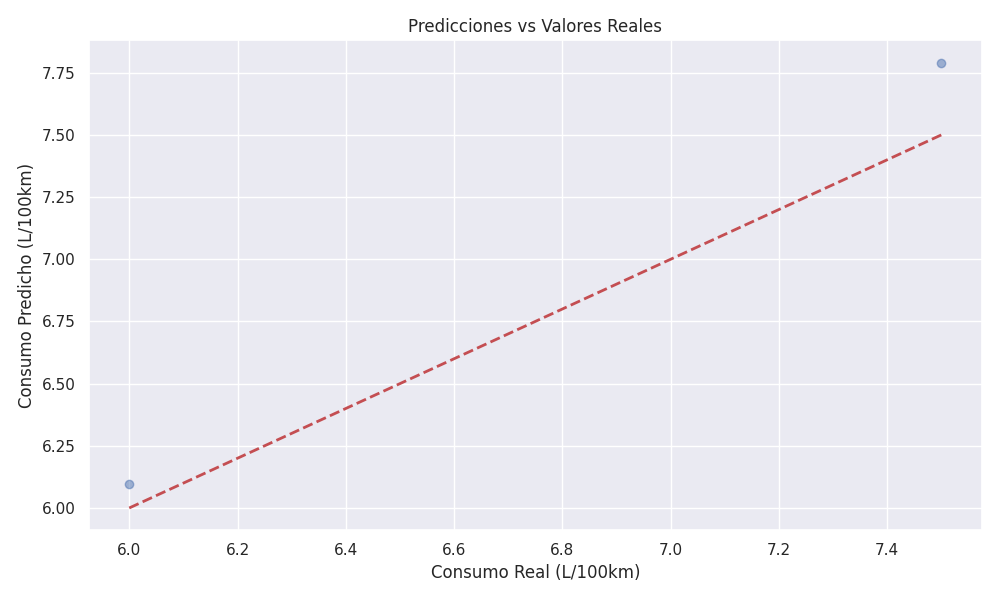
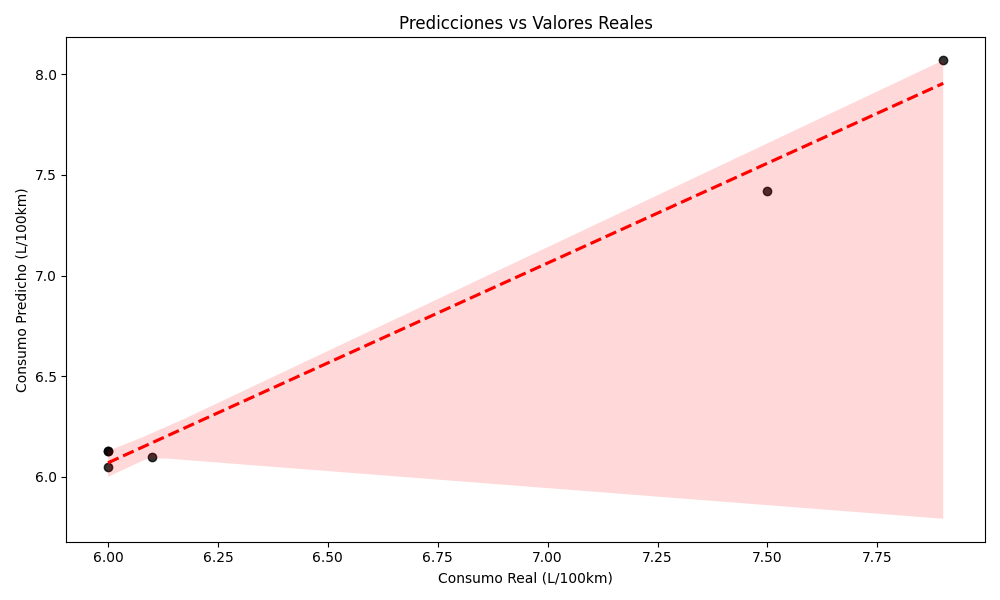
Update data files and modify main.py for improved model training and visualization

diff --git a/expo/ejemplo-2/main.py b/expo/ejemplo-2/main.py
@@ -8,9 +8,9 @@ import matplotlib.pyplot as plt
 import seaborn as sns
 import os
 
-# Configurar el estilo de las gráficas de manera más simple
-plt.style.use('default')
-sns.set_theme()  # Usar el tema por defecto de seaborn
+# # Configurar el estilo de las gráficas de manera más simple
+# plt.style.use('default')
+# sns.set_theme()  # Usar el tema por defecto de seaborn
 
 # Cargar datos
 file_path = os.path.join(os.path.dirname(__file__), "datos_consumo.xlsx")
@@ -39,7 +39,7 @@ X = df[['Peso (kg)', 'Cilindrada (cc)', 'Tipo Motor']]
 y = df['Consumo (L/100km)']
 
 # Dividir datos en conjuntos de entrenamiento y prueba
-X_train, X_test, y_train, y_test = train_test_split(X, y, test_size=0.2, random_state=42)
+X_train, X_test, y_train, y_test = train_test_split(X, y, test_size=0.3, random_state=42)
 
 # Crear y entrenar el modelo
 modelo = LinearRegression()
@@ -72,8 +72,11 @@ print(f"RMSE: {rmse:.4f} L/100km")
 
 # Visualizar predicciones vs valores reales
 plt.figure(figsize=(10, 6))
-plt.scatter(y_test, y_pred, alpha=0.5)
-plt.plot([y_test.min(), y_test.max()], [y_test.min(), y_test.max()], 'r--', lw=2)
+# Usar seaborn regplot para un estilo más similar
+sns.regplot(x=y_test, y=y_pred, 
+            ci=95,  # Agregar intervalo de confianza del 95%
+            scatter_kws={'color': 'black'},  # Puntos negros como en la otra gráfica
+            line_kws={'color': 'red', 'linestyle': '--'})  # Línea roja punteada
 plt.xlabel('Consumo Real (L/100km)')
 plt.ylabel('Consumo Predicho (L/100km)')
 plt.title('Predicciones vs Valores Reales')
